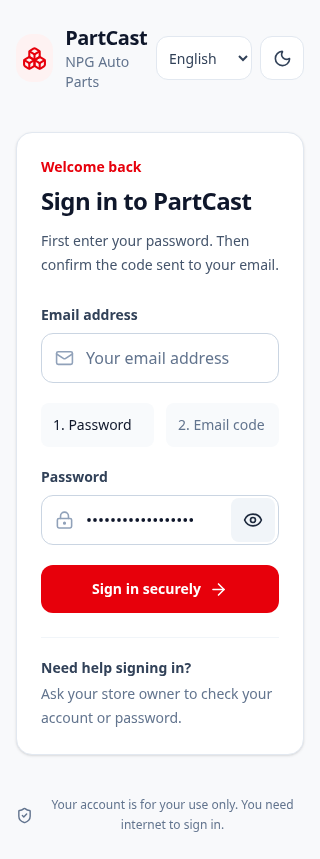
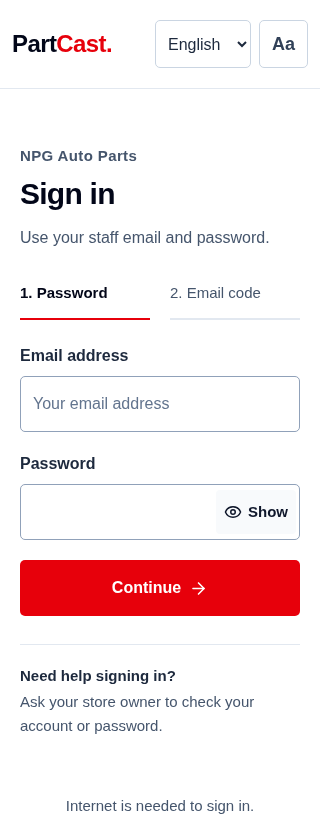
Redesign login as a plain store sign-in screen

diff --git a/apps/web/src/pages/LoginPage.jsx b/apps/web/src/pages/LoginPage.jsx
@@ -1,6 +1,6 @@
 import { t, useLocale } from "../context/LocaleContext.jsx";
 import { useEffect, useRef, useState } from 'react';
-import { ArrowRight, Boxes, Check, Eye, EyeOff, LockKeyhole, Mail, PackageCheck, Search, ShieldCheck, ShoppingCart } from 'lucide-react';
+import { ArrowRight, Check, Eye, EyeOff } from 'lucide-react';
 import { useAuth } from '../context/AuthContext.jsx';
 import { storeConfigured, storeConnectionIssue } from '../lib/supabase.js';
 import { publicApi, apiConnectionIssue } from '../lib/api.js';
@@ -20,10 +20,9 @@ function PasswordField({
   return <div>
     <label className="label" htmlFor={id}>{t(label)}</label>
     <div className="relative">
-      <LockKeyhole aria-hidden="true" className="pointer-events-none absolute left-3.5 top-1/2 -translate-y-1/2 text-slate-400" size={19} />
-      <input id={id} type={visible ? 'text' : 'password'} autoComplete={autoComplete} minLength={minLength} className="input min-h-12 pl-11 pr-14" required value={value} onChange={onChange} aria-describedby={hint ? `${id}-hint` : undefined} />
-      <button type="button" aria-label={t(visible?'Hide {v0}':'Show {v0}',{v0:t(label).toLowerCase()})} aria-pressed={visible} onClick={() => setVisible(current => !current)} className="absolute right-1 top-1/2 grid h-11 w-11 -translate-y-1/2 place-items-center rounded-lg text-slate-500 hover:bg-slate-100 hover:text-slate-800">
-        {visible ? <EyeOff aria-hidden="true" size={20} /> : <Eye aria-hidden="true" size={20} />}
+      <input id={id} type={visible ? 'text' : 'password'} autoComplete={autoComplete} minLength={minLength} className="input min-h-14 pr-24" required value={value} onChange={onChange} aria-describedby={hint ? `${id}-hint` : undefined} />
+      <button type="button" aria-label={t(visible?'Hide {v0}':'Show {v0}',{v0:t(label).toLowerCase()})} aria-pressed={visible} onClick={() => setVisible(current => !current)} className="absolute right-1 top-1/2 flex min-h-11 -translate-y-1/2 items-center gap-1.5 rounded px-2 text-sm font-semibold text-slate-600 hover:bg-slate-50 hover:text-slate-900">
+        {visible ? <EyeOff aria-hidden="true" size={18} /> : <Eye aria-hidden="true" size={18} />}<span>{visible?t('Hide'):t('Show')}</span>
       </button>
     </div>
     {hint && <p id={`${id}-hint`} className="mt-2 text-sm leading-5 text-slate-500">{t(hint)}</p>}
@@ -147,91 +146,58 @@ export default function LoginPage() {
       setLoading(false);
     }
   }
-  return <div className="flex min-h-screen flex-col bg-[#f8f9fb] px-4 py-6 sm:px-8 sm:py-10">
-    <header className="mx-auto flex w-full max-w-5xl flex-wrap items-center gap-3">
-      <span className="grid h-12 w-12 place-items-center rounded-2xl bg-red-50 text-red-600"><Boxes aria-hidden="true" size={25} /></span>
-      <div className="min-w-0"><p className="text-xl font-bold tracking-tight text-slate-900">{t("PartCast")}</p><p className="text-sm text-slate-500">{t("NPG Auto Parts")}</p></div><div className="ml-auto shrink-0"><Preferences /></div>
+  return <div className="login-page flex min-h-[100dvh] flex-col bg-white">
+    <header className="border-b border-slate-200 px-3 py-5 sm:px-8">
+      <div className="mx-auto flex w-full max-w-6xl flex-wrap items-center justify-between gap-3">
+        <p className="text-2xl font-bold tracking-tight text-slate-950" aria-label="PartCast">Part<span className="text-red-600">Cast</span><span className="text-red-600">.</span></p>
+        <Preferences />
+      </div>
     </header>
 
-    <div className="mx-auto my-auto grid w-full max-w-5xl gap-10 py-10 lg:grid-cols-[1fr_1fr] lg:items-center lg:gap-20 lg:py-16">
-      <div className="hidden lg:block">
-        <p className="mb-4 inline-flex items-center gap-2 rounded-full border border-red-100 bg-red-50 px-3 py-1.5 text-sm font-semibold text-red-700"><Check aria-hidden="true" size={16} />{t(" A simpler day at the store")}</p>
-        <h2 className="max-w-md text-4xl font-bold leading-tight tracking-tight text-slate-900">{t("Your parts.")}<br />{t("All in one place.")}</h2>
-        <p className="mt-5 max-w-md text-base leading-7 text-slate-600">{t("Find what you need, keep stock up to date, and know what to order next.")}</p>
-        <div className="mt-8 space-y-5">
-          {[{
-            icon: Search,
-            title: 'Find a part quickly',
-            text: 'Search by its name or part number.'
-          }, {
-            icon: ShoppingCart,
-            title: 'Record a sale',
-            text: 'Choose the part and enter how many you sold.'
-          }, {
-            icon: PackageCheck,
-            title: 'See what needs restocking',
-            text: 'Get a clear list of parts running low.'
-          }].map(({
-            icon: Icon,
-            title,
-            text
-          }) => <div key={title} className="flex items-center gap-4">
-            <span className="grid h-12 w-12 shrink-0 place-items-center rounded-xl border border-slate-200 bg-white text-slate-600"><Icon aria-hidden="true" size={22} /></span>
-            <div><p className="font-semibold text-slate-800">{t(title)}</p><p className="mt-1 text-sm leading-5 text-slate-500">{t(text)}</p></div>
-          </div>)}
-        </div>
-      </div>
+    <div className="flex flex-1 items-center justify-center px-5 py-9 sm:px-8 sm:py-14">
+      <section className="w-full max-w-[26rem]" aria-labelledby="login-title">
+        <p className="text-sm font-semibold tracking-wide text-slate-600">{t('NPG Auto Parts')}</p>
+        <h1 id="login-title" className="mt-2 text-3xl font-semibold leading-tight tracking-tight text-slate-950">{needsSetup ? t('Create the Super Admin account') : otpMode ? t('Check your email') : t('Sign in')}</h1>
+        <p className="mt-3 text-base leading-7 text-slate-600">{needsSetup ? t('Create the first account once. Have your private setup code ready.') : otpMode ? (otpSent?t('Your password is correct. Enter the code sent to your email to finish signing in.'):t('Your password is correct. Request an email code to finish signing in.')) : t('Use your staff email and password.')}</p>
 
-      <section className="w-full rounded-2xl border border-slate-200 bg-white p-6 shadow-sm sm:p-8" aria-labelledby="login-title">
-        <p className="text-sm font-semibold text-red-600">{needsSetup ? t('Welcome to your store') : t('Welcome back')}</p>
-        <h1 id="login-title" className="mt-2 text-2xl font-bold tracking-tight text-slate-900 sm:text-3xl">{needsSetup ? t('Create the Super Admin account') : otpMode ? t('Check your email') : t('Sign in to PartCast')}</h1>
-        <p className="mt-3 text-sm leading-6 text-slate-600">{needsSetup ? t('Create the first account once. Have your private setup code ready.') : otpMode ? (otpSent?t('Your password is correct. Enter the code sent to your email to finish signing in.'):t('Your password is correct. Request an email code to finish signing in.')) : t('First enter your password. Then confirm the code sent to your email.')}</p>
+        {!needsSetup && <ol className="mt-6 grid grid-cols-2 gap-5 text-sm" aria-label={t('Sign-in steps')}>
+          <li aria-current={!otpMode?'step':undefined} className={`flex min-h-11 items-center gap-2 border-b-2 pb-2 ${otpMode?'border-slate-200 text-slate-600':'border-red-600 font-semibold text-slate-950'}`}>{t('1. Password')}{otpMode&&<Check aria-hidden="true" className="shrink-0 text-emerald-700" size={17}/>}</li>
+          <li aria-current={otpMode?'step':undefined} className={`flex min-h-11 items-center border-b-2 pb-2 ${otpMode?'border-red-600 font-semibold text-slate-950':'border-slate-200 text-slate-600'}`}>{t('2. Email code')}</li>
+        </ol>}
 
-        {!storeConfigured && <p role="alert" className="mt-5 rounded-xl border border-amber-200 bg-amber-50 p-4 text-sm leading-6 text-amber-900">{t(storeConnectionIssue)}</p>}
-        {serverError && <div role="alert" className="mt-5 rounded-xl border border-amber-200 bg-amber-50 p-4 text-sm leading-6 text-amber-900"><p>{t(serverError)}</p><button type="button" className="btn-secondary mt-3 w-full border-amber-200 bg-white text-amber-900" disabled={checkingServer} onClick={checkServer}>{checkingServer ? t('Checking connection…') : t('Check connection again')}</button></div>}
-        {error && <div role="alert" className="mt-5 rounded-xl border border-red-200 bg-red-50 px-4 py-3 text-sm leading-6 text-red-800">{t(error)}</div>}
+        {!storeConfigured && <p role="alert" className="mt-6 rounded-md border border-amber-200 bg-amber-50 p-4 text-sm leading-6 text-amber-900">{t(storeConnectionIssue)}</p>}
+        {serverError && <div role="alert" className="mt-6 rounded-md border border-amber-200 bg-amber-50 p-4 text-sm leading-6 text-amber-900"><p>{t(serverError)}</p><button type="button" className="btn-secondary mt-3 w-full border-amber-200 bg-white text-amber-900" disabled={checkingServer} onClick={checkServer}>{checkingServer ? t('Checking connection…') : t('Check connection again')}</button></div>}
+        {error && <div role="alert" className="mt-6 rounded-md border border-red-200 bg-red-50 p-4 text-base leading-7 text-red-800">{t(error)}</div>}
 
-        {needsSetup ? <form onSubmit={submitSetup} className="mt-7 space-y-5" aria-busy={loading}>
-          <PasswordField id="setup-secret" label={t("Setup secret")} value={setup.setupSecret} onChange={e => setSetup({
-            ...setup,
-            setupSecret: e.target.value
-          })} autoComplete="off" hint={t("This is the private setup code provided by the person who set up PartCast.")} />
-          <div><label htmlFor="owner-name" className="label">{t("Owner full name")}</label><input id="owner-name" minLength={2} maxLength={120} autoComplete="name" className="input min-h-12" required value={setup.fullName} onChange={e => setSetup({
-              ...setup,
-              fullName: e.target.value
-            })} /></div>
-          <div><label htmlFor="owner-email" className="label">{t("Email address")}</label><input id="owner-email" maxLength={254} type="email" autoComplete="email" className="input min-h-12" required value={setup.email} onChange={e => setSetup({
-              ...setup,
-              email: e.target.value
-            })} /></div>
-          <PasswordField id="owner-password" value={setup.password} onChange={e => setSetup({
-            ...setup,
-            password: e.target.value
-          })} autoComplete="new-password" minLength={10} hint={t("Use at least 10 characters. Keep your password private.")} />
-          <button disabled={loading || !storeConfigured || Boolean(apiConnectionIssue)} className="btn-primary min-h-12 w-full">{loading ? t('Creating account…') : t('Create Super Admin account')}{!loading && <ArrowRight aria-hidden="true" size={19} />}</button>
-        </form> : <form onSubmit={submitLogin} className="mt-7 space-y-5" aria-busy={loading}>
-          <div><label htmlFor="login-email" className="label">{t("Email address")}</label><div className="relative"><Mail aria-hidden="true" className="pointer-events-none absolute left-3.5 top-1/2 -translate-y-1/2 text-slate-400" size={19} /><input id="login-email" type="email" autoComplete="email" spellCheck={false} autoCapitalize="none" className="input min-h-12 pl-11" required value={otpMode ? session.user.email : login.email} onChange={e => setLogin({
-                ...login,
-                email: e.target.value
-              })} placeholder={t("Your email address")} maxLength={254} readOnly={otpMode && otpSent} /></div></div>
-          <ol className="flex gap-3 text-sm" aria-label={t("Sign-in steps")}><li className="flex-1 rounded-lg bg-slate-50 p-3">{t("1. Password")}{otpMode && <Check className="ml-2 inline text-emerald-600" size={16} />}</li><li className={`flex-1 rounded-lg p-3 ${otpMode ? 'bg-red-50 font-semibold text-red-700' : 'bg-slate-50 text-slate-500'}`}>{t("2. Email code")}</li></ol>
-          {otpMode ? <div><label className="label" htmlFor="login-otp">{t("Email sign-in code")}</label><input id="login-otp" className="input" inputMode="numeric" autoComplete="one-time-code" required minLength={6} maxLength={6} pattern="[0-9]{6}" value={otp} onChange={e => setOtp(e.target.value.replace(/[^0-9]/g, ''))} /><p className="mt-2 text-sm text-slate-500">{otpSent?t("Check your inbox and spam folder. Enter the code from your most recent email."):t('Request a code first. If sending fails, check the message above.')}</p><div className="mt-3 flex flex-wrap gap-2"><button type="button" className="btn-secondary" disabled={loading || resendSeconds > 0} onClick={sendOtp}>{resendSeconds ? t("Resend in {v0}s", {
-                  v0: resendSeconds
-                }) : otpSent ? t('Resend code') : t('Send email code')}</button><button type="button" className="btn-secondary" disabled={loading} onClick={signOut}>{t("Use another account")}</button></div></div> : <PasswordField id="login-password" value={login.password} onChange={e => setLogin({
-            ...login,
-            password: e.target.value
-          })} autoComplete="current-password" />}
+        {needsSetup ? <form onSubmit={submitSetup} className="mt-6 space-y-5" aria-busy={loading}>
+          <PasswordField id="setup-secret" label={t('Setup secret')} value={setup.setupSecret} onChange={e => setSetup({...setup,setupSecret:e.target.value})} autoComplete="off" hint={t('This is the private setup code provided by the person who set up PartCast.')} />
+          <div><label htmlFor="owner-name" className="label">{t('Owner full name')}</label><input id="owner-name" minLength={2} maxLength={120} autoComplete="name" className="input min-h-14" required value={setup.fullName} onChange={e => setSetup({...setup,fullName:e.target.value})} /></div>
+          <div><label htmlFor="owner-email" className="label">{t('Email address')}</label><input id="owner-email" maxLength={254} type="email" autoComplete="email" className="input min-h-14" required value={setup.email} onChange={e => setSetup({...setup,email:e.target.value})} /></div>
+          <PasswordField id="owner-password" value={setup.password} onChange={e => setSetup({...setup,password:e.target.value})} autoComplete="new-password" minLength={10} hint={t('Use at least 10 characters. Keep your password private.')} />
+          <button disabled={loading || !storeConfigured || Boolean(apiConnectionIssue)} className="btn-primary min-h-14 w-full">{loading ? t('Creating account…') : t('Create Super Admin account')}{!loading && <ArrowRight aria-hidden="true" size={19} />}</button>
+        </form> : <form onSubmit={submitLogin} className="mt-6 space-y-5" aria-busy={loading}>
+          <div><label htmlFor="login-email" className="label">{t('Email address')}</label><input id="login-email" type="email" autoComplete="email" spellCheck={false} autoCapitalize="none" className={`input min-h-14 ${otpMode?'bg-slate-50':''}`} required value={otpMode ? session.user.email : login.email} onChange={e => setLogin({...login,email:e.target.value})} placeholder={t('Your email address')} maxLength={254} readOnly={otpMode} /></div>
+          {otpMode ? <div>
+            <label className="label" htmlFor="login-otp">{t('Email sign-in code')}</label>
+            <input id="login-otp" className="input min-h-16 text-center font-mono text-2xl tracking-[0.35em]" inputMode="numeric" autoComplete="one-time-code" aria-describedby="login-otp-help" required minLength={6} maxLength={6} pattern="[0-9]{6}" value={otp} onChange={e => setOtp(e.target.value.replace(/[^0-9]/g, ''))} />
+            <p id="login-otp-help" className="mt-3 text-sm leading-6 text-slate-600">{otpSent?t('Check your inbox and spam folder. Enter the code from your most recent email.'):t('Request a code first. If sending fails, check the message above.')}</p>
+          </div> : <PasswordField id="login-password" value={login.password} onChange={e => setLogin({...login,password:e.target.value})} autoComplete="current-password" />}
 
-          <button disabled={loading || !storeConfigured || Boolean(apiConnectionIssue)} className="btn-primary min-h-12 w-full">{loading ? t('Signing in…') : otpMode ? t('Verify code and sign in') : t('Sign in securely')}{!loading && <ArrowRight aria-hidden="true" size={19} />}</button>
+          <button disabled={loading || !storeConfigured || Boolean(apiConnectionIssue)} className="btn-primary min-h-14 w-full">{loading ? t('Signing in…') : otpMode ? t('Verify code and sign in') : t('Continue')}{!loading && <ArrowRight aria-hidden="true" size={19} />}</button>
+
+          {otpMode && <div className="flex flex-wrap items-center justify-between gap-2">
+            <button type="button" className="min-h-11 rounded px-1 text-sm font-semibold text-red-700 underline underline-offset-4 disabled:cursor-not-allowed disabled:text-slate-500 disabled:no-underline" disabled={loading || resendSeconds > 0} onClick={sendOtp}>{resendSeconds ? t('Resend in {v0}s',{v0:resendSeconds}) : otpSent ? t('Resend code') : t('Send email code')}</button>
+            <button type="button" className="min-h-11 rounded px-1 text-sm font-semibold text-slate-600 underline underline-offset-4 disabled:cursor-not-allowed disabled:opacity-50" disabled={loading} onClick={signOut}>{t('Use another account')}</button>
+          </div>}
         </form>}
 
-        <div className="mt-6 border-t border-slate-100 pt-5">
-          <p className="text-sm font-semibold text-slate-700">{t("Need help signing in?")}</p>
-          <p className="mt-1 text-sm leading-6 text-slate-500">{otpMode?t('Ask your Super Admin to check Gmail settings if an email code cannot be sent.'):t("Ask your store owner to check your account or password.")}</p>
+        <div className="mt-7 border-t border-slate-200 pt-5">
+          <p className="text-sm font-semibold text-slate-800">{t('Need help signing in?')}</p>
+          <p className="mt-1 text-sm leading-6 text-slate-600">{otpMode?t('Ask your Super Admin to check Gmail settings if an email code cannot be sent.'):t('Ask your store owner to check your account or password.')}</p>
         </div>
       </section>
     </div>
 
-    <footer className="mx-auto flex max-w-5xl items-center justify-center gap-2 text-center text-xs leading-5 text-slate-500 sm:text-sm"><ShieldCheck aria-hidden="true" className="shrink-0" size={17} /><p>{t("Your account is for your use only. You need internet to sign in.")}</p></footer>
+    <footer className="px-5 pb-6 text-center text-sm text-slate-600">{t('Internet is needed to sign in.')}</footer>
   </div>;
 }

diff --git a/apps/web/tests/e2e/store.spec.js b/apps/web/tests/e2e/store.spec.js
@@ -421,6 +421,7 @@ test('an incomplete sales-history response keeps the demand page usable and cann
  valid=true;await page.getByRole('button',{name:'Refresh sales data',exact:true}).click();await expect(page.getByText('Record or import actual sales first.',{exact:true})).toBeVisible();expect(errors).toEqual([]);
 });
 test('password is required before Gmail email code; wrong code cannot open the store',async({page,context})=>{
+ await page.setViewportSize({width:390,height:844});
  const calls=[],passwords=[];let verified=false;
  const headers={'access-control-allow-origin':'*','access-control-allow-headers':'*','access-control-allow-methods':'*'};
  await context.route('http://localhost:10000/**',async route=>{
@@ -439,8 +440,10 @@ test('password is required before Gmail email code; wrong code cannot open the s
  await route.fulfill({json:{},headers});
  });
  await page.goto('/counter');await expect(page.getByLabel('Password',{exact:true})).toBeVisible();await expect(page.getByLabel('Email sign-in code')).toHaveCount(0);
- await page.getByLabel('Email address',{exact:true}).fill('staff@example.test');await page.getByLabel('Password',{exact:true}).fill('wrong-password');await page.getByRole('button',{name:'Sign in securely'}).click();await expect(page.getByRole('alert')).toBeVisible();expect(calls).toHaveLength(0);
- await page.getByLabel('Password',{exact:true}).fill('test-only-correct-password');await page.getByRole('button',{name:'Sign in securely'}).click();await expect(page.getByLabel('Email sign-in code')).toBeVisible();await expect.poll(()=>calls.length).toBe(1);await expect(page.getByRole('button',{name:/Resend in/})).toBeDisabled();expect(calls[0].path).toBe('/auth/otp/request');expect(calls[0].body).toEqual({});
+ await page.getByLabel('Email address',{exact:true}).fill('staff@example.test');await page.getByLabel('Password',{exact:true}).fill('wrong-password');await page.getByRole('button',{name:'Continue'}).click();await expect(page.getByRole('alert')).toBeVisible();expect(calls).toHaveLength(0);
+ await page.getByLabel('Password',{exact:true}).fill('test-only-correct-password');await page.getByRole('button',{name:'Continue'}).click();await expect(page.getByLabel('Email sign-in code')).toBeVisible();await expect.poll(()=>calls.length).toBe(1);await expect(page.getByRole('button',{name:/Resend in/})).toBeDisabled();expect(calls[0].path).toBe('/auth/otp/request');expect(calls[0].body).toEqual({});
+ await expect(page.getByLabel('Email address',{exact:true})).toHaveAttribute('readonly','');await expect(page.getByRole('list',{name:'Sign-in steps'}).locator('[aria-current="step"]')).toHaveText('2. Email code');
+ expect(await page.evaluate(()=>document.documentElement.scrollWidth<=innerWidth)).toBe(true);await page.screenshot({path:'/tmp/partcast-login-email-code.png',fullPage:true});
  await page.getByLabel('Email sign-in code').fill('123456');await page.getByRole('button',{name:'Verify code and sign in'}).click();await expect(page.getByRole('alert')).toContainText('code is incorrect');await expect(page.locator('main')).toHaveCount(0);
  await page.getByLabel('Email sign-in code').fill('654321');await page.getByRole('button',{name:'Verify code and sign in'}).click();await expect(page.getByRole('heading',{name:'Hello, Store'})).toBeVisible();expect(passwords).toHaveLength(2);expect(calls.at(-1).body).toEqual({code:'654321'});
 });

diff --git a/apps/web/tests/e2e/offline.spec.js b/apps/web/tests/e2e/offline.spec.js
@@ -107,9 +107,9 @@ test('sign-in connection failures show a retry action and release the submit but
  await expect(page.getByText(/Cannot reach the store server/)).toHaveCount(0);
  await page.getByLabel('Email address').fill('staff@example.test');
  await page.getByLabel('Password',{exact:true}).fill('test-only-password');
- await page.getByRole('button',{name:'Sign in securely'}).click();
+ await page.getByRole('button',{name:'Continue'}).click();
  await expect(page.getByText(/Cannot reach the sign-in service/)).toBeVisible({timeout:20000});
- await expect(page.getByRole('button',{name:'Sign in securely'})).toBeEnabled();
+ await expect(page.getByRole('button',{name:'Continue'})).toBeEnabled();
 });
 
 test('reports download Excel and reject an HTML page returned by a misconfigured API',async({page,context})=>{
@@ -196,7 +196,22 @@ test('light sign-in supports password visibility on a phone',async({page,context
  await page.getByRole('button',{name:'Show password',exact:true}).click();await expect(password).toHaveAttribute('type','text');
  await page.getByRole('button',{name:'Hide password',exact:true}).click();await expect(password).toHaveAttribute('type','password');
  expect(await page.evaluate(()=>document.documentElement.scrollWidth<=innerWidth)).toBe(true);
- await page.screenshot({path:'/tmp/partcast-redesign-login.png',fullPage:true});
+ await password.fill('');
+ await password.blur();
+ for(const [name,width,height] of [['phone',320,840],['tablet',820,1180],['desktop',1440,1000]]){
+  await page.setViewportSize({width,height});
+  await expect(page.getByRole('heading',{name:'Sign in',exact:true})).toBeVisible();
+  await expect(page.getByRole('list',{name:'Sign-in steps'}).locator('[aria-current="step"]')).toHaveText('1. Password');
+  expect(await page.evaluate(()=>document.documentElement.scrollWidth<=innerWidth)).toBe(true);
+  expect(await page.locator('.login-page').evaluate(el=>[el,...el.querySelectorAll('*')].some(node=>getComputedStyle(node).backgroundImage.includes('gradient')))).toBe(false);
+  await page.screenshot({path:`/tmp/partcast-login-${name}.png`,fullPage:true});
+ }
+ await page.setViewportSize({width:320,height:840});await page.getByRole('button',{name:'Text and display'}).click();await page.getByRole('button',{name:'Larger text',exact:true}).click();await page.getByRole('button',{name:'Done',exact:true}).click();
+ await page.getByLabel('Website language').selectOption('fil');await expect(page.getByRole('heading',{name:'Mag-sign in',exact:true})).toBeVisible();await expect(page.getByRole('button',{name:'Susunod',exact:true})).toBeVisible();
+ expect(await page.evaluate(()=>document.documentElement.scrollWidth<=innerWidth)).toBe(true);
+ await page.screenshot({path:'/tmp/partcast-login-tagalog.png',fullPage:true});
+ await page.getByRole('button',{name:'Laki ng text at kulay'}).click();await page.getByRole('button',{name:'Gamitin ang dark mode'}).click();await page.getByRole('button',{name:'Tapos na',exact:true}).click();
+ await expect(page.locator('html')).toHaveAttribute('data-theme','dark');expect(await page.evaluate(()=>document.documentElement.scrollWidth<=innerWidth)).toBe(true);
 });
 
 for(const size of [{name:'small-phone',width:320,height:740},{name:'tablet',width:820,height:1180},{name:'desktop',width:1440,height:1000}]){

diff --git a/apps/web/src/index.css b/apps/web/src/index.css
@@ -43,6 +43,12 @@
 
 @media (prefers-reduced-motion: reduce) { *, *::before, *::after { animation-duration: .01ms !important; transition-duration: .01ms !important; scroll-behavior: auto !important; } }
 
+/* The sign-in screen uses a plain form, without the store's dashboard cards. */
+.login-page :is(.input,.btn-primary,.btn-secondary,header button,header select) { border-radius: 5px; }
+.login-page :is(.btn-primary,.btn-secondary) { box-shadow: none; }
+.login-page .input:focus { border-color: #475569; box-shadow: none; }
+.login-page .input:focus-visible { outline: 2px solid #475569; outline-offset: 2px; }
+
 /* Theme tokens apply to every shared control and existing screen. */
 html[data-theme="dark"] { color-scheme: dark; background:#111827; }
 html[data-theme="dark"] body {background:#111827;color:#f1f5f9;}
@@ -68,3 +74,5 @@ html[data-theme="dark"] .recharts-cartesian-axis-tick text {fill:#cbd5e1;}
 html[data-theme="dark"] .recharts-cartesian-grid line {stroke:#475569;}
 html[data-theme="dark"] .recharts-default-tooltip {background:#1f2937!important;border-color:#475569!important;}
 html[data-theme="dark"] :focus-visible {outline-color:#fca5a5;}
+html[data-theme="dark"] .login-page .input:focus {border-color:#cbd5e1;}
+html[data-theme="dark"] .login-page .input:focus-visible {outline-color:#cbd5e1;}

diff --git a/docs/USABILITY_REDESIGN.md b/docs/USABILITY_REDESIGN.md
@@ -19,6 +19,12 @@ Common Tagalog labels and all assistant layers use familiar store language: stoc
 
 The interface explicitly uses a locally available sans-serif font, increases small text and button labels, improves field borders and separates selected navigation items with a visible edge. **Text and display** opens a simple reading panel with standard/larger text and light/dark choices, saved on the device and available before login. Large text uses an 18-pixel base. Main workflows are checked at 320, 768 and 1440 pixels with large text. Daily forecast averages have a concrete explanation; the quiet sync bar hides its manual-send action when no changes or errors need attention.
 
+## Plain store sign-in
+
+Login uses a single centered form on a solid background, a compact PartCast wordmark and the store name. Password and email-code steps have an active underline. Fields are larger, Show/Hide has a visible label, and the main action appears before resend/change-account links. The email address is read-only once the password session is established, and the six-digit code has its own larger input and instructions. First-account setup uses the same layout. Password verification, required Gmail codes, resend limits, setup requirements and offline session checks remain enforced.
+
+Login styling is scoped to this screen. Light/dark and larger-text preferences remain available before signing in. Input focus uses a clear gray outline, while errors retain red feedback. The production build, 22 web/translation tests and five targeted browser workflows passed; phone, tablet and desktop previews were reviewed, including Tagalog, larger text and the email-code step. Browser checks also verify no gradient backgrounds are present. Updated screenshots are in [design previews](design-previews/README.md).
+
 ## Accessibility and responsive behavior
 
 Controls use at least 44-pixel touch targets, primary fields and buttons generally use 48 pixels, and inputs use 16-pixel text to avoid automatic phone zoom. Text labels accompany actions and stock statuses so meaning does not depend on color. Focus indicators, a skip-to-content link, keyboard-trapped dialogs, Escape closing, focus restoration, and reduced-motion support are included. Optional sections stay open while a user corrects an invalid field.

diff --git a/docs/design-previews/README.md b/docs/design-previews/README.md
@@ -8,7 +8,12 @@ These screenshots show the light interface using fictional test data.
 - [Phone inventory](phone-inventory.png)
 - [Tablet sell or receive](tablet-sales.png)
 - [Phone sign-in](phone-login.png)
+- [Tablet sign-in](tablet-login.png)
+- [Desktop sign-in](desktop-login.png)
+- [Phone email-code step](phone-email-code.png)
 
 Sales and deliveries share Sell or receive. Inventory contains part details and stock corrections, with read-only controls for Cashiers. Part photos fit their frames without cropping and open a gallery independently of adding an item to a basket. Login requires a password followed by the emailed code.
+
+The sign-in previews show the plain, solid-color layout: one form, a simple PartCast wordmark, labeled Show/Hide password controls, and an explicit password/email-code sequence. They use blank fields or a fictional staff account. No real credentials or store records are shown.
 
 To save all application files and these pictures, open the repository branch on GitHub and choose Code → Download ZIP. Screenshots do not establish a live deployment.
